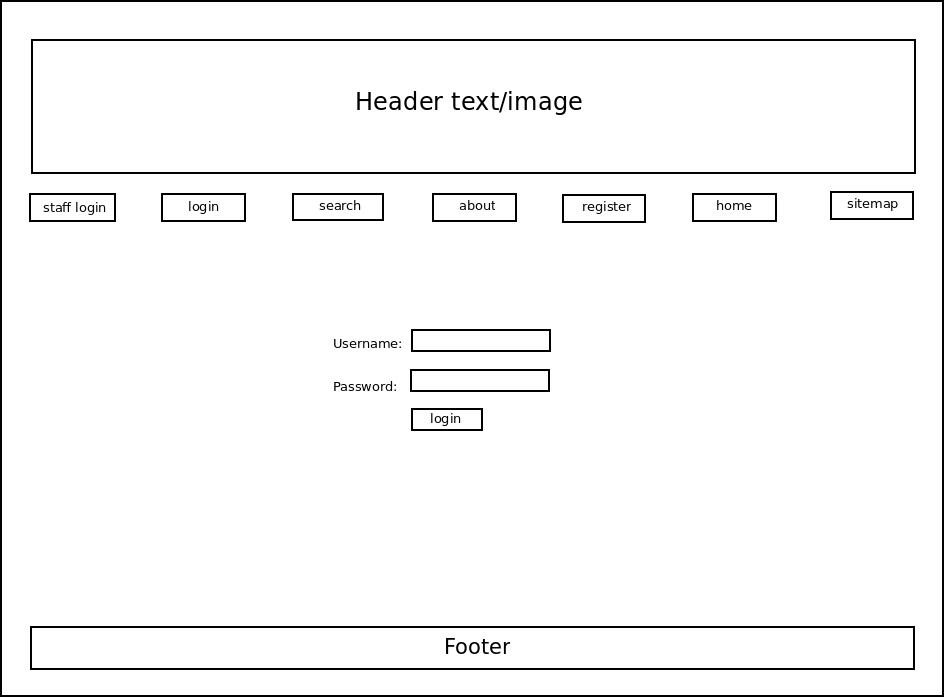
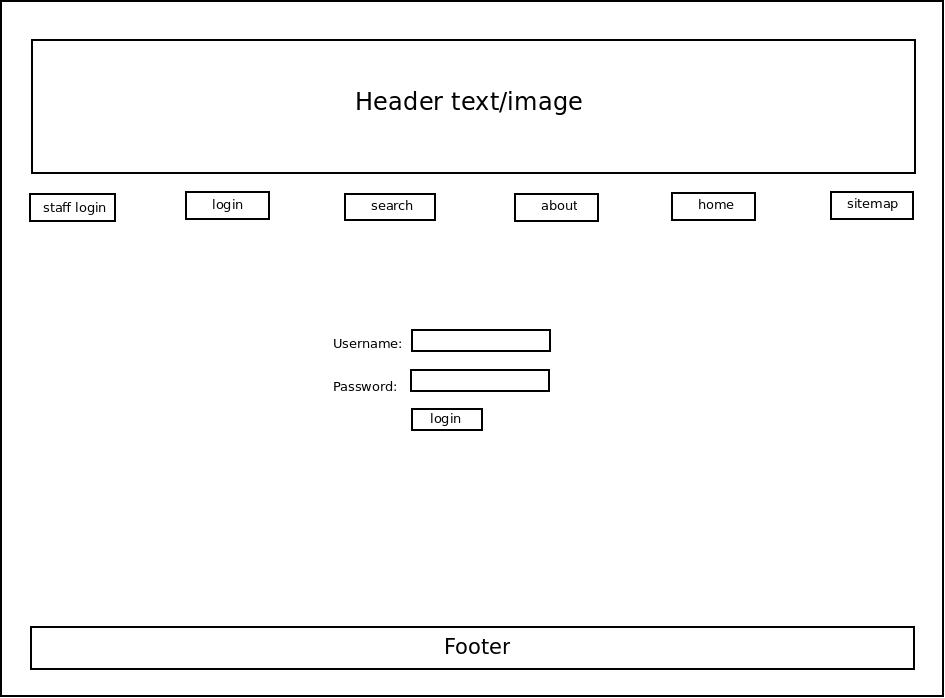
V4: update wireframes

Changed region(s): [[0.3069, 0.2708, 0.6751, 0.3309], [0.7058, 0.2708, 0.8286, 0.3309], [0.1841, 0.2708, 0.2762, 0.3309]]

diff --git a/sysAnalysis.html b/sysAnalysis.html
@@ -1,0 +1,16 @@
+<!DOCTYPE html PUBLIC "-//W3C//DTD XHTML 1.0 Transitional//EN" "http://www.w3.org/TR/xhtml1/DTD/xhtml1-transitional.dtd">
+<html xmlns="http://www.w3.org/1999/xhtml">
+<head>
+  <meta http-equiv="Content-Type" content="text/html; charset=utf-8" />
+  <meta http-equiv="Content-Style-Type" content="text/css" />
+  <meta name="generator" content="pandoc" />
+  <title></title>
+  <style type="text/css">code{white-space: pre;}</style>
+</head>
+<body>
+<h1 id="system-analysis">System Analysis</h1>
+<p>The library system is a system to manage data held by a library on users(customers and staff), books held by the library, and the books that are out on loan to individual users. This system uses a web based, interactive user-interface to search records, CRUD records, and supply information about the services provided by the system. It will create links between the data held in order to display information on the connections between the entities involved.<br />
+##Functional requirements ###Information display The most basic function of the system is simply to display information. This function is available to all users, not restricted to registered users such as customers and staff. This information is held on the about page and the home page. ###Search items The user can also interrogate the books table of the database using a search function. This function is available to all users. <img src="images/useCaseSearch.jpg" alt="Use case diagram - search" /> This diagram shows the steps involved in searching the book table. First the user clicks on the search button. When the search form is displayed, the user then enters an author, title or keyword(s). This creates a query to the database which will return a list of matches or a message if no matches are found. ###Login function Registered users can login to the system to gain access to information on the books they have on loan at the moment and to renew any of these items. <img src="images/useCaseLogin.jpg" alt="Use case diagram - login" /> A customer logs in and is redirected to their MyLoans page which is the customer home page. <img src="images/activityRenewBook.jpg" alt="Activity diagram - renew book" /> When a customer clicks on login and enters their username and password, the system checks if there is a match in the database and displays the MyLoans page containing the items they have on loan. If no match is found, an error message is displayed. The user home page has the option for the customer to renew any of the items out on loan.<br />
+<img src="images/sequenceRenewItem.jpg" alt="Sequence diagram - renew book" /> The various levels of the system are illustrated in the sequence diagram for logging in and renewing an item. The login function processes the user details and then redirects to the MyLoans page where a function performs a check on the database for any loans that the customer has out. A function then updates the database if the customer clicks on renew item. ###CRUD items Staff members can CRUD books and users in the database. A staff member must be logged in to access these functions. The system will check if the username and password correspond to a user in the database with the staff role when the staff member logs in. The system will then display a page allowing the user to input details to the database. <img src="images/useCaseCRUD.jpg" alt="Use case diagram - CRUD" /> When a staff member clicks on login and enters their username and password, the system checks if there is a match in the database and if they have staff level authorisation. If the data does not match, an error message is displayed. Otherwise the user is redirected to a page displaying options for staff members. This will include links to update the databases for users, books and loans and a link to their MyLoans page. If the staff member clicks on create a new book, an update book form is displayed, allowing the user to update the database with the new item. <img src="images/activityCRUDBook.jpg" alt="Activity diagram - CRUD" /> Creating, updating and deleting the book will involve the same form with different action buttons to complete the different actions. When the details are entered in the form and the action is selected, the system will update the database or display an error message if the action cannot be completed. <img src="images/sequenceCRUDItem.jpg" alt="Sequence diagram - CRUD book" /> The login function processes the user details and then redirects the user to the CRUD option form where the user can enter updated book details. A function then checks the database for the book and updates the details if it exists in the database or displays an error message if the action cannot be completed. ##Data requirements The library system will contain data on the user and the library holdings. This data will be held in MySQL database tables. The third table in the database, loan, links user to book. This relationship and the necessary columns of all three tables is shown in this entity-relationship diagram. <img src="images/UserLoanBookER.jpg" alt="E-R diagram - user, loan, book" /> The relationship descibed here is that the user takes out a loan which contains a book. This also lists all the properties of each of the entities. ###Class diagrams Class diagrams are similar to entity-relationship diagrams as they show the relationships between entities that will be defined as classes in the code. Though they show similar information, they are designed to represent the class code structure. They usually contain the properties and the methods of the class, and so are particularly useful when deciding what classes are necessary and what responsibilities each class will have (Booch et al, 1998). <img src="images/classLoan.jpg" alt="Class diagram - loan" /> This diagram shows the relationship between User, Book and Loan classes. It shows customer as a subclass of User. It also shows that each loan is related to one customer, but a customer can have many loans. In this design, to simplify the relationships, each loan object is associated with only one book object. In this diagram, as loan is the focus of the diagram, both the properties and the methods have been described. The other classes have only their properties described. <img src="images/classCRUD.jpg" alt="Class diagram - CRUD" /> This diagram shows the relationship between User, Book and BookContoller. It shows StaffUser as a subclass of User. The StaffUser uses BookContoller which uses Book in order to update the database table of books with the create, update and delete methods. ##Constraints and assumptions In order to create a working model of the system it is necessary to simplify the relationships and data held. A real world library system will have more detailed information, such as overdue books and fines due. The user data has been kept to one table, however it may be more appropriate to hold this information in two separate tables, one for staff members and one for customers. Assumptions have been made on the type of data held on library items and the users of the system, based on information collected from the librariesireland website and the book FRBR.</p>
+</body>
+</html>

diff --git a/sysDesign.html b/sysDesign.html
@@ -1,0 +1,18 @@
+<!DOCTYPE html>
+<html>
+<head>
+  <meta charset="utf-8">
+  <meta name="generator" content="pandoc">
+  <meta name="viewport" content="width=device-width, initial-scale=1.0, user-scalable=yes">
+  <title></title>
+  <style type="text/css">code{white-space: pre;}</style>
+  <!--[if lt IE 9]>
+    <script src="http://html5shim.googlecode.com/svn/trunk/html5.js"></script>
+  <![endif]-->
+</head>
+<body>
+<h1 id="system-design">System Design</h1>
+<h2 id="user-interface-design">User interface design</h2>
+<p>All the pages have the same basic layout to help users to easily navigate around the website. The header area of the pages will contain an image or text at the top and a horizontal navigation bar underneath this. The bottom of the page will contain information in the footer. The main area of the page varies between the pages. ###Home page <img src="images/homePage.jpg" alt="wireframe diagram - home page" /> Basic home page with popular items or staff suggestions displayed to give customers ideas of books to borrow. ###About page <img src="images/about.jpg" alt="wireframe diagram - about page" /> The about page will have text detailing services available on the website. ###Login page <img src="images/loginPage.jpg" alt="wireframe diagram - login page" /> Login page with textboxes for user input of username and password and a login (submit) button. ###Login page for staff <img src="images/loginPageStaff.jpg" alt="wireframe diagram - Staff login page" /> Login page with textboxes as above and a warning banner to alert non-staff users that login is restricted. ###Search page <img src="images/search.jpg" alt="wireframe diagram - search page" /> Search page with textboxes for user input of title, author or keyword. These will be independent of each other, that is one or more can be left blank. ###List of search results page <img src="images/searchResults.jpg" alt="wireframe diagram - search results page" /> This page will display a clickable list of results from a search. ###One book page <img src="images/OneBook.jpg" alt="wireframe diagram - book page" /> This page is used for displaying the details of an individual book. ###List of loans page for a customer <img src="images/MyLoans.jpg" alt="wireframe diagram - MyLoans page" /> This page will be used by customers to view and renew items that they have on loan. ###Create an entry in the book table <img src="images/crudBook.jpg" alt="wireframe diagram - CRUD book page" /> A staff area page allowing a staff member to create, update or delete records in the book table. ###Create an entry in the user table <img src="images/crudUser.jpg" alt="wireframe diagram - CRUD user page" /> A staff area page allowing a staff member to create, update or delete records in the user table. ##Data design The data for the library system will be held in a database. The basic structure of the database is built on three tables. These are a table of users, a table of books and a table of loans. ###User table The user table contains details of staff and customers. Both are in the same table as there are only a few entries in this test system. The id is auto-incremented in this table, however in a real-world situation the id would be a staff member number or membership number for customers.<br />| id | username | firstname | lastname | address | email | password | role | | :----- | :-------- | :-------- | :------- | :--------- | :------ | :------- | :--- | | 1 | fred | Fred | Smith | My address | myEmail | password | staff | ###Book table The book table contains details of the books in the library. The id is the ISBN, which is a unique identifier for a particular publication of a work by an author (Coyle, 2015). The date is the year of publication for this particular publication. Books have been identified by various catagories. The description is a short piece of text giving a basic idea of what the book is about. | isbn | title | author | publisher | date | catagory | description | | :-------- | :--------- | :---------- | :--------------- | :--- | :------- | :---------- | | 151008116 | Life of Pi | Yann Martel | Houghton Mifflin | 2002 | fiction | Sample text | ###Loans table The loans table is a table of loans with an auto-incremented loanId. Each loan has a customer id and a book id, the date the book was taken out and the date it will be due back. | loanId | userId | bookId | dateOut | dateDueBack | | :----- | :----- | :-------- | :--------- | :---------- | | 1 | 3 | 857381113 | 2017-03-22 | 2017-04-20 |</p>
+</body>
+</html>

diff --git a/method.md b/method.md
@@ -1,6 +1,6 @@
 #Method
 ##Overview
-This system needs to work cross platform as it will be available online.  The technologies used could be either traditional web design technologies: HTML, PHP and a MySQL based database system; or a web-app based on Java.
+This system needs to work cross platform as it will be available online.  The technologies used could be either traditional web design technologies: HTML, PHP and a MySQL based database system; or a web-app based on Java.  Either route has the advantage of being able to be used on various platforms (Trent et al, 2008, Adebukola and Kazeem, 2014).  The various technologies are described below.
 ##PHP
 PHP is a server-side programming language which integrates easily with both MySQL and HTML to provide websites that can change with user input and work with large amounts of data (Nixon, 2015; php.net).  PHP forms the middle-ground between the user interface and the data held in the database.  PHP can be used with all major operating systems and web browsers and with many databases (php.net).  Part of the popularity of PHP is that it is free to use (Adebukola and Kazeem, 2014).  PHP can be used to output HTML (Nixon, 2015).  PHP is less strict with formatting than other languages (Nixon, 2015).  PHP supports object oriented programming.  Using OOP and encapsulating the data so that the code itself cannot be directly accessed is more secure and makes it more simple to update code, simply replace the old class with a new class (Nixon, 2015).  PHP also supports inheritance, which makes creating new classes easier (Nixon, 2015).
 ##HTML5
@@ -15,3 +15,5 @@ MySQL is a widely used database language that is easy to learn and straight-forw
 Java uses a combination of compilation and interpretation (Eck, 2014). Java is compiled for the JVM (Java Virtual Machine) which allows the compiled code to be ported across different operating systems instead of being compiled to run only on one particular machine and needing to be compiled for each machine (Eck, 2014).  The Java bytecode can then be interpreted by an interpreter to produce machine code to run the Java program on that particular machine (Eck, 2014).  This is one of the advantages of using Java because compilers are large and complicated programs unlike interpreters and one would be required for the machine language for each machine type that the program would be required to run on (Eck, 2014).  Many android apps are written in Java (Eck, 2014).  Both PHP and Java can be used as a middle-ground between the client-side GUI and the server-side data (Trent et al, 2008, Adebukola and Kazeem, 2014).  Both have similar capabilities and there is little to choose between them (Trent et al, 2008).
 ##Linking of technologies
 PHP, MySQL, HTML are all free to use (Nixon, 2015).  PHP and MySQL work together in dynamic web pages, PHP can be used to connect to the database, send an SQL query to retrieve information and use this information to build a webpage (Nixon, 2015).  CSS, HTML and JavaScript are used in combination to provide the structure, look and instant user interaction functionality in dynamic web page design (Nixon, 2015).  Ajax (Asynchronous JavaScript and XML) uses a combination of technologies to provide instant feedback to users without the need to wait for information from the server (Nixon, 2015).
+##Conclusion
+While Java and PHP can both be used for this style of application, as this system will be designed as a website the PHP, HTML and MySQL technologies have been chosen as the basis for this system.

diff --git a/sysDesign.md b/sysDesign.md
@@ -6,7 +6,7 @@ All the pages have the same basic layout to help users to easily navigate around
 Basic home page with popular items or staff suggestions displayed to give customers ideas of books to borrow.
 ###About page
 ![wireframe diagram - about page](images/about.jpg)
-The about page will have text talking about services available on the website.
+The about page will have text detailing services available on the website.
 ###Login page
 ![wireframe diagram - login page](images/loginPage.jpg)
 Login page with textboxes for user input of username and password and a login (submit) button.
@@ -18,7 +18,7 @@ Login page with textboxes as above and a warning banner to alert non-staff users
 Search page with textboxes for user input of title, author or keyword.  These will be independent of each other, that is one or more can be left blank.
 ###List of search results page
 ![wireframe diagram - search results page](images/searchResults.jpg)
-This page will display a list of results from a search.
+This page will display a clickable list of results from a search.
 ###One book page
 ![wireframe diagram - book page](images/OneBook.jpg)
 This page is used for displaying the details of an individual book.
@@ -31,14 +31,13 @@ A staff area page allowing a staff member to create, update or delete records in
 ###Create an entry in the user table
 ![wireframe diagram - CRUD user page](images/crudUser.jpg)
 A staff area page allowing a staff member to create, update or delete records in the user table.
-##Functional Design (with class diagrams and interaction diagrams)
 ##Data design
 The data for the library system will be held in a database.  The basic structure of the database is built on three tables.  These are a table of users, a table of books and a table of loans.
 ###User table
 The user table contains details of staff and customers.  Both are in the same table as there are only a few entries in this test system.  The id is auto-incremented in this table, however in a real-world situation the id would be a staff member number or membership number for customers.  
-| id     | username  | firstname | lastname | address | email | password | role  |
-| :----- | :-------- | :-------- | :------- | :------ | :---- | :------- | :---  |
-| 1      | fred      | Fred      | Smith    | address | email | password | staff |
+| id     | username  | firstname | lastname | address    | email   | password | role  |
+| :----- | :-------- | :-------- | :------- | :--------- | :------ | :------- | :---  |
+| 1      | fred      | Fred      | Smith    | My address | myEmail | password | staff |
 ###Book table
 The book table contains details of the books in the library.  The id is the ISBN, which is a unique identifier for a particular publication of a work by an author (Coyle, 2015).  The date is the year of publication for this particular publication.  Books have been identified by various catagories.  The description is a short piece of text giving a basic idea of what the book is about.
 | isbn      | title      | author      | publisher        | date | catagory | description |

diff --git a/implementation.md b/implementation.md
@@ -5,4 +5,6 @@ The first step was to analyse the system data requirements and the operations th
 ##Symfony project
 The code for the project started with initialising a Symfony project through the command line and auto-generating the User and Books entity classes. The next step involved creating BookController, UserController and MainController classes.  These classes contain methods that will act upon the entity classes.  The MainController is used for general acions.  The Repositories for the User and Books entities were also created.  These classes contain the methods for querying the database tables specific to each entity.
 ##Templates
-A base twig template was designed that holds the design that will be common to all pages.  A homepage, an about page and a page to list books were also designed.  These templates extend the base template so that only code specific to each page is necessary to include in each template.  The list books template was designed to test that the code could connect to the database and retrieve data from it.  A list users template was also designed to test the same thing for the user table. A search page was added using the Symfony FormBuilderInterface which contains methods for creating forms that can be overwritten with methods specific to the form being built.  Navigation links were added to the base template to connect to the required templates in this design.  A basic CSS stylesheet was included to give the website some basic styling.  
+A base twig template was designed that holds the design that will be common to all pages.  A homepage, an about page and a page to list books were also designed.  These templates extend the base template so that only code specific to each page is necessary to include in each template.  The list books template was designed to test that the code could connect to the database and retrieve data from it.  A list users template was also designed to test the same thing for the user table. A search page and login page were added using the Symfony FormBuilderInterface which contains methods for creating forms that can be overwritten with methods specific to the form being built.  Navigation links were added to the base template to connect to the required templates in this design.  A basic CSS stylesheet was included to give the website some basic styling.  
+##User authentication
+The library system makes use of Symfony's user authentication services and interfaces which streamline user login and authentication.
